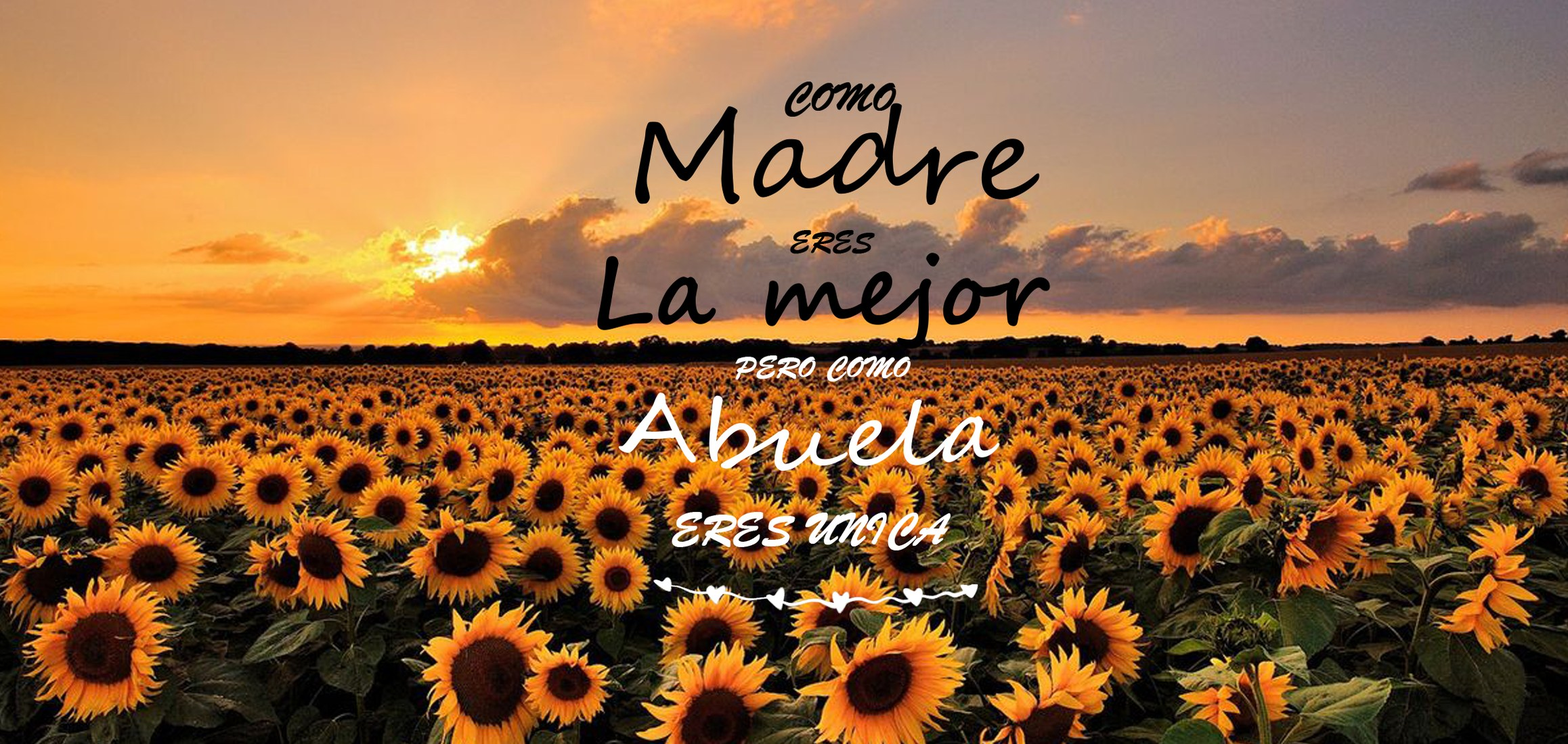
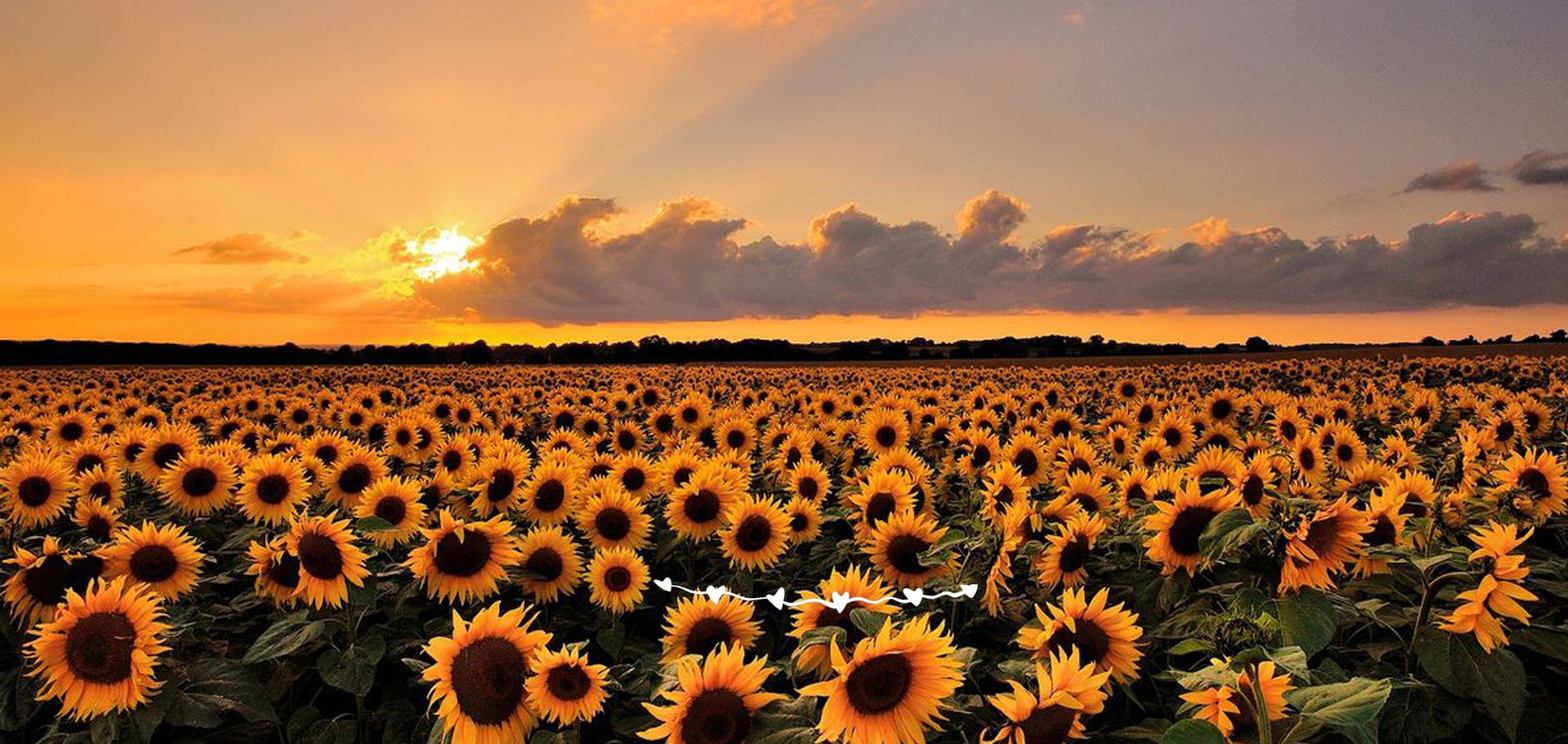
Frases editables en polaroids

diff --git a/js/disenador.js b/js/disenador.js
@@ -240,6 +240,11 @@
     var cargas = p.capas.filter(function (c) { return c.img; }).map(function (c) {
       return cargarImagen(p.ruta + c.img).then(function (im) { c.imagen = im; });
     });
+    (p.textos || []).forEach(function (t) {
+      (t.originales || []).forEach(function (o) {
+        cargas.push(cargarImagen(p.ruta + o.img).then(function (im) { o.imagen = im; }));
+      });
+    });
     p.listo = Promise.all(cargas);
     return p.listo;
   }
@@ -290,6 +295,8 @@
         ctx.translate(m.cx, m.cy); ctx.rotate(m.ang);
         foto(ctx, -m.w / 2, -m.h / 2, m.w, m.h, c.foto);
         ctx.restore();
+      } else if (c.texto != null && p.textos[c.texto].tipo === "frase") {
+        dibujarFrase(ctx, p.textos[c.texto], estado.textos[c.texto]);
       } else if (c.texto != null) {
         var t = p.textos[c.texto], valor = texto(c.texto);
         ctx.save();
@@ -303,6 +310,40 @@
         }
         ctx.restore();
       }
+    });
+  }
+
+  // Frases en partes ("como" + palabra grande + "eres" + ...): sin editar se muestra el lettering original;
+  // al editar, la frase se separa con el patrón del prediseño y cada parte va en su lugar y estilo.
+  function partesDeFrase(t, valor) {
+    var m = new RegExp(t.patron, "i").exec(valor.trim().replace(/\s+/g, " "));
+    if (m) return m.slice(1);
+    // no calza con el patrón: toda la frase va en la parte grande principal
+    var partes = t.partes.map(function () { return ""; });
+    var mayor = 0;
+    t.partes.forEach(function (pt, i) { if (!pt.mayus && pt.tam > t.partes[mayor].tam) mayor = i; });
+    partes[mayor] = valor.trim();
+    return partes;
+  }
+
+  function dibujarFrase(ctx, t, valor) {
+    if (!valor) {
+      (t.originales || []).forEach(function (o) {
+        if (o && o.imagen) ctx.drawImage(o.imagen, o.x, o.y, o.imagen.naturalWidth, o.imagen.naturalHeight);
+      });
+      return;
+    }
+    var partes = partesDeFrase(t, valor);
+    t.partes.forEach(function (pt, i) {
+      var txt = (partes[i] || "").trim();
+      if (!txt) return;
+      if (pt.mayus) txt = txt.toUpperCase();
+      else txt = txt.charAt(0).toUpperCase() + txt.slice(1);
+      ctx.save();
+      ctx.fillStyle = pt.color;
+      ctx.textBaseline = "middle";
+      textoAjustado(ctx, txt, pt.x, pt.y, pt.max, pt.tam, pt.fuente, "center");
+      ctx.restore();
     });
   }
 
@@ -459,8 +500,9 @@
   function construirTextos(p) {
     bloqueTextos.hidden = !p.textos.length;
     camposTexto.innerHTML = p.textos.map(function (t, i) {
-      var largo = (t.lineas || 1) > 1 || i === 1 ? 140 : 32;
-      return '<label class="campo" for="texto-' + i + '"><span>' + t.etiqueta + "</span>" +
+      var largo = (t.lineas || 1) > 1 || i === 1 || t.tipo === "frase" ? 140 : 32;
+      var ayuda = t.tipo === "frase" ? '<small class="ayuda">Mantén «como» y «eres» para que quede con el mismo estilo. Si lo dejas vacío, queda la frase original.</small>' : "";
+      return '<label class="campo" for="texto-' + i + '"><span>' + t.etiqueta + "</span>" + ayuda +
         ((t.lineas || 1) > 1
           ? '<textarea id="texto-' + i + '" rows="3" maxlength="' + largo + '" placeholder="' + t.ejemplo.replace(/"/g, "&quot;") + '"></textarea>'
           : '<input type="text" id="texto-' + i + '" maxlength="' + largo + '" autocomplete="off" placeholder="' + t.ejemplo.replace(/"/g, "&quot;") + '">') +
@@ -638,6 +680,7 @@
 
   /* ---------- arranque ---------- */
   var fuentes = ["120px 'Lilita One'", "700 120px 'Dancing Script'", "600 50px 'Cormorant Garamond'",
+    "100px 'Kalam'", "100px 'Damion'",
     "italic 600 50px 'Cormorant Garamond'", "800 50px Nunito"];
   var listasFuentes = Promise.all(fuentes.map(function (f) { return document.fonts.load(f).catch(function () {}); }));
 

diff --git a/personalizados.html b/personalizados.html
@@ -12,7 +12,7 @@
 <link rel="icon" href="assets/img/logo.png">
 <link rel="preconnect" href="https://fonts.googleapis.com">
 <link rel="preconnect" href="https://fonts.gstatic.com" crossorigin>
-<link rel="stylesheet" href="https://fonts.googleapis.com/css2?family=Lilita+One&family=Nunito:wght@400;700;800&family=Dancing+Script:wght@700&family=Cormorant+Garamond:ital,wght@0,600;0,700;1,600&display=swap">
+<link rel="stylesheet" href="https://fonts.googleapis.com/css2?family=Lilita+One&family=Nunito:wght@400;700;800&family=Dancing+Script:wght@700&family=Kalam&family=Damion&family=Cormorant+Garamond:ital,wght@0,600;0,700;1,600&display=swap">
 <link rel="stylesheet" href="css/estilos.css">
 </head>
 <body data-pagina="personalizados">

diff --git a/css/estilos.css b/css/estilos.css
@@ -353,6 +353,7 @@ footer a { color: var(--texto); text-decoration: none; }
 .foto-chip.lista { border-color: var(--wsp); }
 .foto-chip.lista[aria-pressed="true"] { border-color: var(--amarillo); }
 .campos-texto { display: grid; gap: 14px; }
+.campo .ayuda { font-weight: 600; font-size: .8rem; color: #8f86b3; }
 .campo textarea {
   font: 700 1rem/1.4 var(--f-texto); color: var(--texto); background: var(--noche);
   border: 1.5px solid var(--noche-3); border-radius: 10px; padding: 11px 12px; width: 100%; resize: vertical;

diff --git a/herramientas/armar_predisenos.py b/herramientas/armar_predisenos.py
@@ -147,11 +147,57 @@ def hueco_interior(alpha_doc):
     return (lab == mejor).astype(np.uint8)
 
 
-def armar_polaroids(ruta, ident, nombre, ocasion, adorno):
+def guardar_capa(a, c):
+    """Guarda una capa sola (recortada) y devuelve {img, x, y, w, h} en coordenadas del diseño."""
+    px = psd.rgba(c)
+    antes = len(a.lista)
+    a.recorte(px, c.caja[0], c.caja[1])
+    item = a.lista.pop() if len(a.lista) > antes else None
+    return item
+
+
+def color_capa(c):
+    px = psd.rgba(c)
+    m = px[..., 3] > 0.9
+    rgb = np.median(px[..., :3][m], axis=0) * 255
+    return "#%02x%02x%02x" % tuple(int(v) for v in rgb)
+
+
+# Fuentes web parecidas a las del PSD (Segoe Script y Brush Script MT no se pueden publicar en la web)
+FUENTE_GRANDE = "{t}px 'Kalam', cursive"
+FUENTE_BRUSH = "{t}px 'Damion', cursive"
+
+
+def frase(a, etiqueta, ejemplo, patron, capas):
+    """capas: lista de (nombre_capa, estilo) con estilo 'grande' (Kalam), 'brush' o 'chica' (Damion en mayúsculas)."""
+    partes, originales = [], []
+    for nombre, estilo in capas:
+        c = a.capa(nombre)
+        l, t, r, b = c.caja
+        w, h = r - l, b - t
+        tam = {"grande": h * 1.05, "brush": h * 1.05, "chica": h * 1.45}[estilo]
+        partes.append({
+            "x": a.esc(l + w / 2), "y": a.esc(t + h / 2), "max": a.esc(w * 1.15), "tam": round(tam * a.s),
+            "fuente": FUENTE_GRANDE if estilo == "grande" else FUENTE_BRUSH,
+            "color": color_capa(c), "mayus": estilo == "chica"})
+        originales.append(guardar_capa(a, c))
+    a.texto({"tipo": "frase", "etiqueta": etiqueta, "ejemplo": ejemplo, "patron": patron,
+             "partes": partes, "originales": originales})
+    return [n for n, _ in capas]
+
+
+P1 = r"^(.*?\bcomo)\s+(.+?)\s+(eres)\s+(.+)$"
+P2 = r"^(.*?\bcomo)\s+(.+?)\s+(eres\b.*)$"
+
+
+def armar_polaroids(ruta, ident, nombre, ocasion, adorno, frases=()):
     a = Armador(ruta, ident, nombre, ocasion)
     pol = [c for c in a.capas if c.nombre.startswith("Capa 5") or c.nombre == "Capa 7"]
-    resto = [c for c in a.capas if c not in pol]
+    usadas = sum((list(n for n, _ in f[3]) for f in frases), [])
+    resto = [c for c in a.capas if c not in pol and c.nombre not in usadas]
     a.imagen_completa(componer(a.info, resto))
+    for f in frases:
+        frase(a, *f)
     for c in pol:                                   # de abajo hacia arriba
         px = psd.rgba(c)
         if adorno:
@@ -209,6 +255,10 @@ def miniaturas(lista, ancho=420):
                 im.alpha_composite(t, (int(round(c.get("x", 0))), int(round(c.get("y", 0)))))
             elif "color" in c:
                 im.paste(c["color"], (0, 0, p["ancho"], p["alto"]))
+            elif "texto" in c and p["textos"][c["texto"]].get("tipo") == "frase":
+                for o in p["textos"][c["texto"]]["originales"]:
+                    t = Image.open(os.path.join(SALIDA, p["id"], o["img"])).convert("RGBA")
+                    im.alpha_composite(t, (int(round(o["x"])), int(round(o["y"]))))
             elif "foto" in c:
                 d = ImageDraw.Draw(im); f = c["forma"]
                 if f["tipo"] == "quad":
@@ -224,8 +274,14 @@ if __name__ == "__main__":
     carpeta = sys.argv[1]
     P = lambda n: os.path.join(carpeta, n)
     lista = []
-    lista.append(armar_polaroids(P("taza_mama_thyare.psd"), "polaroids-noche", "Polaroids · Mamá y Abuela", "Día de la Madre", adorno=False))
-    lista.append(armar_polaroids(P("taza_abuela_thyare.psd"), "polaroids-girasoles", "Girasoles · Mamá y Abuela", "Día de la Madre", adorno=True))
+    lista.append(armar_polaroids(P("taza_mama_thyare.psd"), "polaroids-noche", "Polaroids · Mamá y Abuela", "Día de la Madre", adorno=False, frases=[
+        ("Frase de arriba", "Como Abuela eres la mejor", P1, [("COMO", "chica"), ("Abuela", "grande"), ("ERES", "chica"), ("La mejor", "brush")]),
+        ("Frase de abajo", "Pero como Madre eres única", P2, [("PERO COMO", "chica"), ("Madre", "grande"), ("ERES UNICA", "chica")]),
+    ]))
+    lista.append(armar_polaroids(P("taza_abuela_thyare.psd"), "polaroids-girasoles", "Girasoles · Mamá y Abuela", "Día de la Madre", adorno=True, frases=[
+        ("Frase de arriba", "Como Madre eres la mejor", P1, [("COMO", "chica"), ("Madre", "grande"), ("ERES", "chica"), ("La mejor", "brush")]),
+        ("Frase de abajo", "Pero como Abuela eres única", P2, [("PERO COMO", "chica"), ("Abuela", "grande"), ("ERES UNICA", "chica")]),
+    ]))
     lista.append(armar_marco(P("taza_tio.psd"), "querida-familia", "Querida familia", "Recuerdo",
                              foto="Capa 6", marco_desde="Capa 9", forma_tipo="elipse",
                              textos={
@@ -241,6 +297,8 @@ if __name__ == "__main__":
     for p in lista:
         s = p["alto"] / 1122 if p["id"] == "querida-familia" else 1
         for t in p["textos"]:
+            if t.get("tipo") == "frase":
+                continue
             for k in ("x", "y", "max", "alto"):
                 if k in t: t[k] = round(t[k] * s, 1)
             t["tam"] = round(t["tam"] * s)
